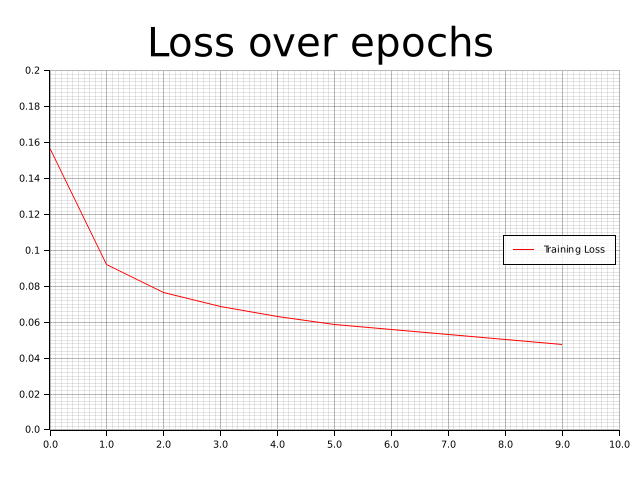
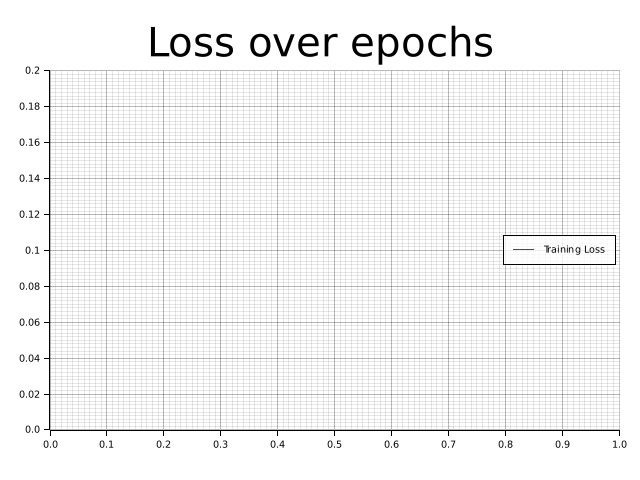
Added validation step, score output to txt file, and timed training

diff --git a/src/main.rs b/src/main.rs
@@ -1,8 +1,10 @@
 use plotters::prelude::*;
 use rand::Rng;
 use std::env::current_exe;
+use std::fs;
 use std::fs::File;
 use std::io::Read;
+use std::time::{SystemTime, UNIX_EPOCH};
 use std::vec;
 
 struct Layer {
@@ -221,7 +223,7 @@ fn draw_mnist(image: Vec<Vec<f64>>) -> Result<(), Box<dyn std::error::Error>> {
     Ok(())
 }
 
-fn draw_loss_over_time(losses: Vec<f64>) -> Result<(), Box<dyn std::error::Error>> {
+fn draw_loss_over_time(losses: &Vec<f64>) -> Result<(), Box<dyn std::error::Error>> {
     // Create a drawing area for the plot
     let root = BitMapBackend::new("line_plot.png", (640, 480)).into_drawing_area();
     root.fill(&WHITE)?;
@@ -275,11 +277,20 @@ fn main() {
     //#########################################################################
     // Load data
     //#########################################################################
+    // Training
     let dataset: Vec<Vec<Vec<f64>>> =
-        load_dataset_mnist_images("datasets/mnist/t10k-images.idx3-ubyte");
+        load_dataset_mnist_images("datasets/mnist/train-images.idx3-ubyte");
     let flat_dataset = flatten_images(dataset.clone());
-    let labels: Vec<u8> = load_dataset_mnist_label("datasets/mnist/t10k-labels.idx1-ubyte");
+    let labels: Vec<u8> = load_dataset_mnist_label("datasets/mnist/train-labels.idx1-ubyte");
     let flat_labels = flatten_labels(labels.clone());
+
+    // Validation
+    let validation_dataset: Vec<Vec<Vec<f64>>> =
+        load_dataset_mnist_images("datasets/mnist/t10k-images.idx3-ubyte");
+    let validation_flat_dataset = flatten_images(validation_dataset.clone());
+    let validation_labels: Vec<u8> =
+        load_dataset_mnist_label("datasets/mnist/t10k-labels.idx1-ubyte");
+    let validation_flat_labels = flatten_labels(validation_labels.clone());
 
     //#########################################################################
     // Create network
@@ -287,13 +298,15 @@ fn main() {
 
     let mut network = Network::new(&[784, 128, 10]);
     let learning_rate = 0.5;
-    let epochs = 10;
 
     //#########################################################################
     // Training
     //#########################################################################
+    let start = SystemTime::now();
+    let mut dt = SystemTime::now().duration_since(start).expect("Error");
+    let mut epoch = 0;
 
-    for epoch in 0..epochs {
+    while dt.as_millis() < 10_000 {
         let mut loss_sum = 0.0;
         for i in 0..flat_dataset.len() {
             let output = network.forward(&flat_dataset[i]);
@@ -301,32 +314,45 @@ fn main() {
             loss_sum += loss;
 
             // dl/dout (Gradient of loss for the network) = (output - target)
-            let dl_dout = output.into_iter().zip(flat_labels[i].clone().into_iter()).map(|(o,t)| (o-t)).collect();
+            let dl_dout = output
+                .into_iter()
+                .zip(flat_labels[i].clone().into_iter())
+                .map(|(o, t)| (o - t))
+                .collect();
             network.backward(&dl_dout, learning_rate);
         }
         let loss_avg = loss_sum / flat_dataset.len() as f64;
         losses.push(loss_avg);
+        dt = SystemTime::now().duration_since(start).expect("Error");
+        epoch += 1;
         if epoch % 1 == 0 {
-            println!("Epoch {}: avg loss = {}", epoch, loss_avg);
+            println!(
+                "Epoch {}, Total time: {}: avg loss = {}",
+                epoch,
+                dt.as_millis(),
+                loss_avg
+            );
         }
     }
 
     //#########################################################################
     // Testing
     //#########################################################################
-
-    // for (input, target) in training_data.iter() {
-    //     let output = network.forward(input);
-    //     println!(
-    //         "Input: {:?}, target: {:?} output: {:?}",
-    //         input, target, output
-    //     );
-    // }
+    let mut validation_loss_sum = 0.0;
+    for i in 0..validation_flat_dataset.len() {
+        let output = network.forward(&validation_flat_dataset[i]);
+        let loss = rmse(&output, &validation_flat_labels[i]);
+        validation_loss_sum += loss;
+    }
+    let validation_loss = validation_loss_sum / validation_flat_dataset.len() as f64;
+    println!("Validation loss: {}", validation_loss);
 
     //#########################################################################
     // Visualization
     //#########################################################################
-    let _ = draw_loss_over_time(losses);
+    let _ = draw_loss_over_time(&losses);
+    let data = format!("{:?}", validation_loss);
+    fs::write("last_mnist_results", data).expect("Unable to write file");
 
     //  MNIST
     let data: Vec<Vec<f64>> = dataset[0].clone();
